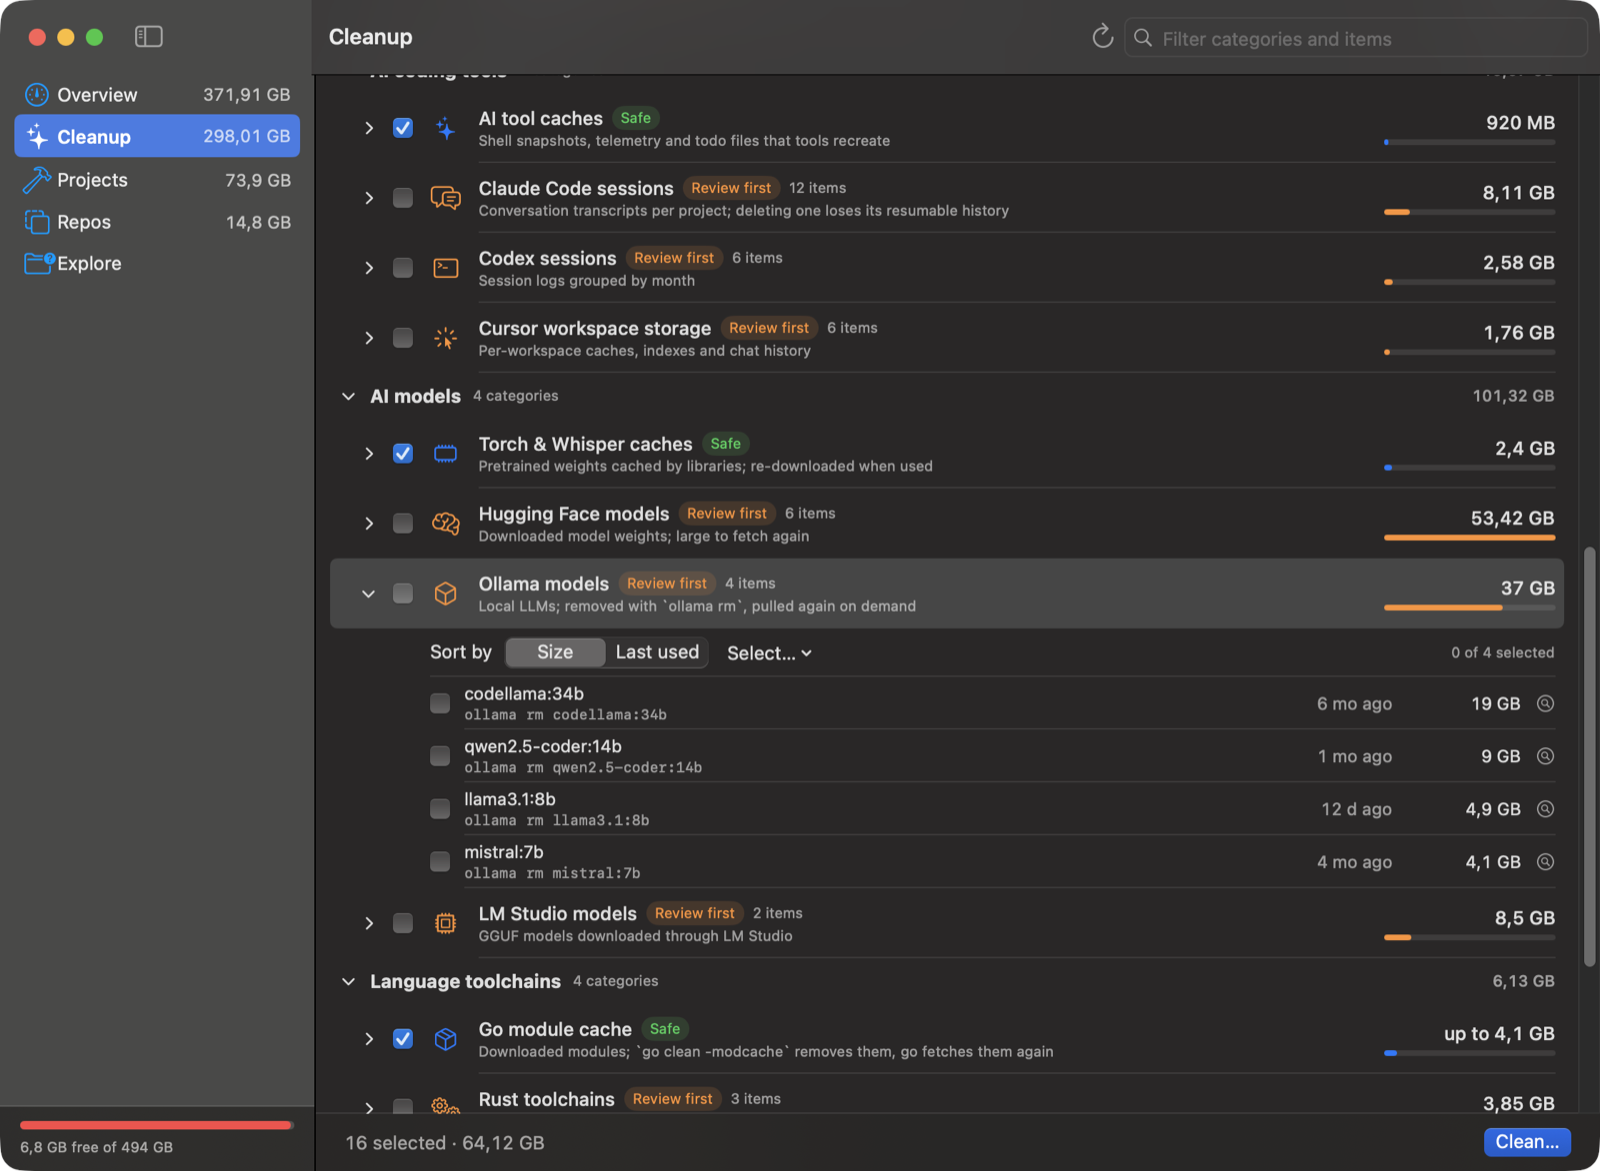
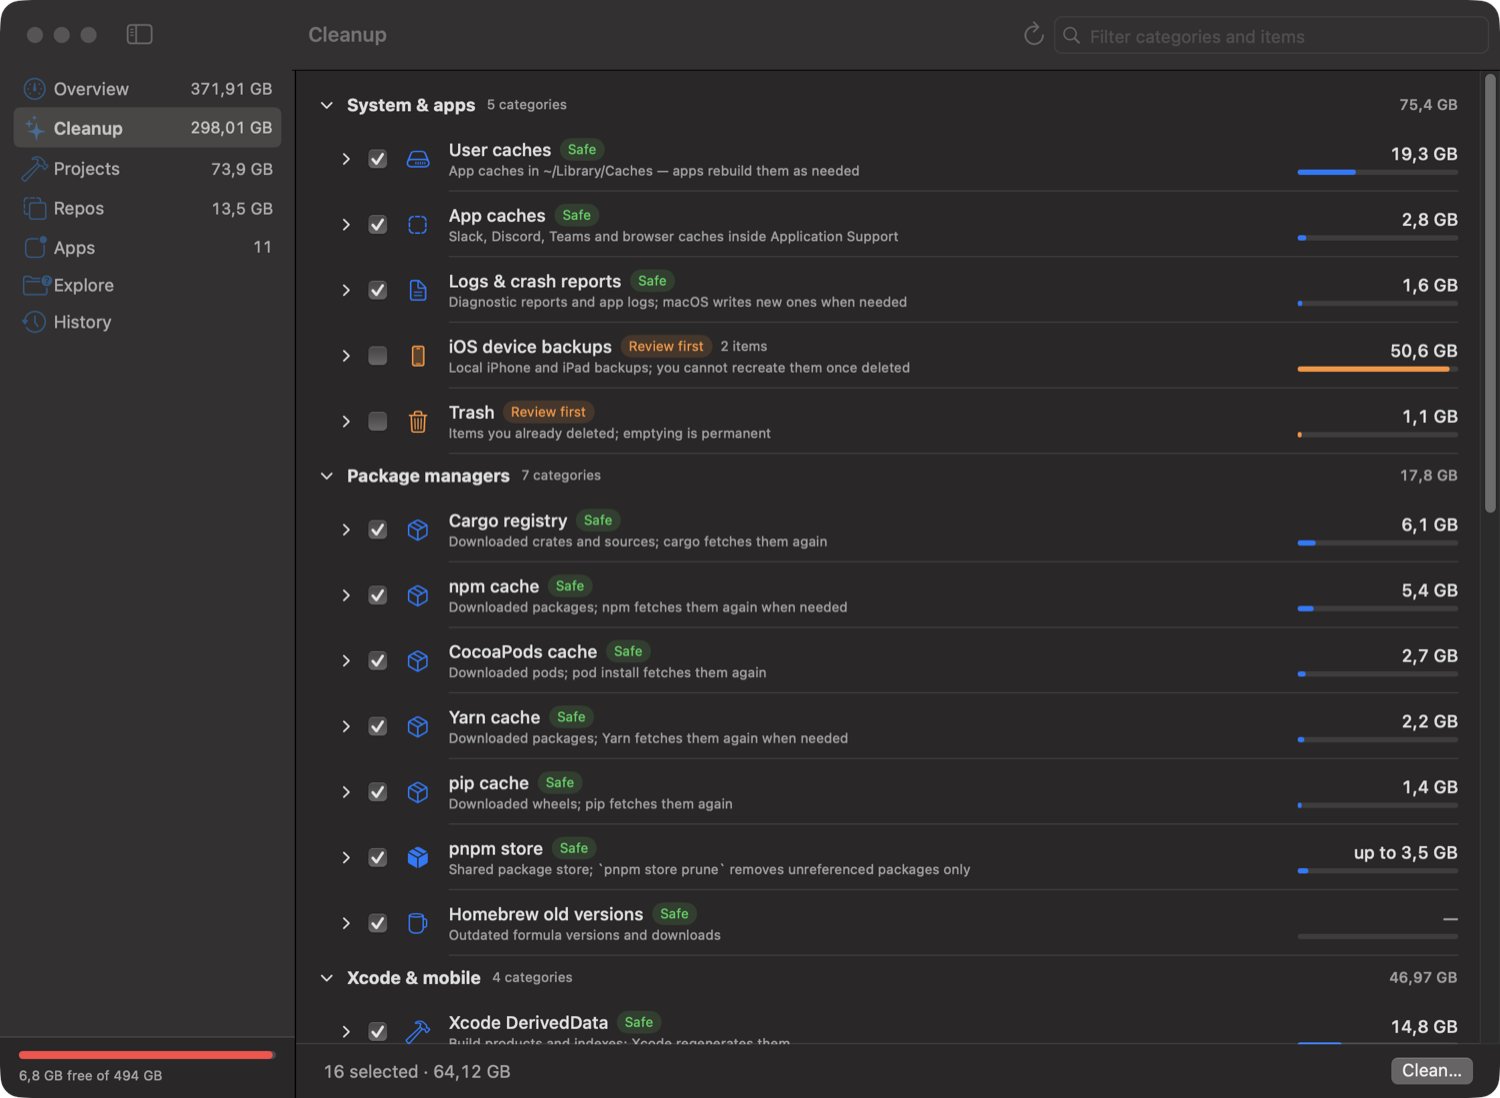
README: pitch, hero, install block and comparison first; refreshed mock-mode screenshots

diff --git a/README.md b/README.md
@@ -14,26 +14,46 @@
 </p>
 
 <p align="center">
-  <img src="docs/screenshots/overview.png" width="860" alt="Overview: real free space versus what Finder reports, and the biggest things you can reclaim">
+  <img src="docs/screenshots/overview.png" width="860" alt="Overview: real free space versus what Finder reports, and the biggest things you can reclaim (mock data)">
 </p>
+
+```sh
+brew install --cask baturox/tap/mac-cleaner   # the app, plus the mac-cleaner command
+open -a "Mac Cleaner"                          # or download the .dmg from the latest release
+mac-cleaner scan                               # the same numbers on the command line
+```
+
+Mac Cleaner updates itself in place: the download is checked against its published checksum and the developer's signature and notarization before anything is replaced, and nothing is installed without your click (see [Updates](#updates)). The app works without [Full Disk Access](#full-disk-access); some sizes are then too small.
 
 <table>
   <tr>
-    <td><img src="docs/screenshots/cleanup.png" alt="Cleanup: categories grouped by safe and caution"></td>
-    <td><img src="docs/screenshots/projects.png" alt="Projects: stale build folders with idle time"></td>
+    <td><img src="docs/screenshots/cleaning.png" alt="Cleaning: every item shown as it is removed, with a progress bar and a time estimate (mock data)"></td>
+    <td><img src="docs/screenshots/apps.png" alt="Apps: size, data kept and last use, with an approximate date marked when macOS has none (mock data)"></td>
   </tr>
   <tr>
-    <td><img src="docs/screenshots/repos.png" alt="Repos: every clone and worktree with its backup status"></td>
-    <td><img src="docs/screenshots/repos-remove-warning.png" alt="Removing a clone that is not backed up needs an explicit confirmation"></td>
+    <td><img src="docs/screenshots/repos.png" alt="Repos: every clone and worktree with its backup status (mock data)"></td>
+    <td><img src="docs/screenshots/cleanup.png" alt="Cleanup: categories grouped by safe and caution (mock data)"></td>
   </tr>
   <tr>
-    <td colspan="2"><img src="docs/screenshots/history.png" alt="History: every deletion made by the app, the command line or an AI agent, with items and outcomes (mock data)"></td>
+    <td colspan="2" align="center"><img src="docs/screenshots/update.png" width="480" alt="The update prompt: current and new version, release notes, Install Update, Later and Skip This Version"></td>
   </tr>
 </table>
 
 Mac Cleaner is a free, open-source macOS app (with a command-line tool) that frees up the disk space developers actually lose: `node_modules` and Rust `target` folders in dozens of projects, duplicate git clones and worktrees left behind by coding agents, Claude Code / Cursor / Codex session data, Hugging Face and Ollama model downloads, npm / pnpm / uv / Homebrew caches, Xcode DerivedData and simulators, Docker images.
 
 If your Mac says the disk is full and "System Data" is enormous, this is the tool that tells you which folders it really is, and which of them are safe to delete.
+
+## How it compares
+
+An honest, short comparison. "—" means not something I can state with confidence.
+
+| | Mac Cleaner | DaisyDisk | CleanMyMac | npkill | kondo |
+|---|---|---|---|---|---|
+| Scope | Developer caches, build folders, git clones, AI tool data, apps | Disk-space map of any folder | General Mac cleanup | `node_modules` folders | Build folders of many project types |
+| Knows developer artifacts | Yes (build folders, package caches, Xcode, AI models and sessions) | No | — | `node_modules` only | Yes (project build folders) |
+| Git-safety checks before deleting | Yes (uncommitted, unpushed, stash, no remote; never removes work that exists nowhere else without a confirmation) | No | — | — | — |
+| Command line / MCP for AI agents | Both | No | No | Command line | Command line |
+| Price and licence | Free, MIT, open source | Paid, closed source | Paid, closed source | Free, open source | Free, open source |
 
 ## Why another cleaner?
 
@@ -74,7 +94,7 @@ Mac Cleaner knows these places. It shows what each one is, how big it is, whethe
 
 1. Download `MacCleaner-<version>.dmg` from the [latest release](https://github.com/baturox/mac-cleaner/releases/latest).
 2. Open it and drag **Mac Cleaner** to **Applications**.
-3. Read the next section before the first launch.
+3. Optionally grant [Full Disk Access](#full-disk-access) for complete sizes.
 
 Each release also contains a `.zip` of the app, a CLI-only `.tar.gz`, and `SHA256SUMS` to verify the downloads.
 
@@ -277,7 +297,7 @@ $ mac-cleaner apps com.acme.app --clear-caches -n
 $ mac-cleaner apps com.acme.app --remove --with-data
 ```
 
-`apps` lists installed apps (`--json`, `--unused <days>`, `--sort size|data|opened|name`). With a bundle identifier it shows the data the app keeps; `--clear-caches` removes only its cache folders, `--remove` moves the app to the Trash (`--with-data` also removes its exact-match data, except data folders over 50 MB, which are named and left alone). `-n/--dry-run` previews, `-y` skips the question (required off a terminal), `--trash` moves the data to the Trash too instead of deleting it. `--json` with an action is a dry run. The CLI never removes "possibly related" folders or group containers.
+`apps` lists installed apps (`--json`, `--unused <days>`, `--sort size|data|opened|name`). *Last opened* is Spotlight's launch date; when macOS has none, a date marked `≈` is an estimate from the newest change in the app's own data files (Preferences plist, Container, Caches, Saved Application State; only for apps with a reverse-DNS bundle id). The estimate never counts an app as unused: `--unused` and the "Not opened in 90+ days" filter use launch dates only. In `--json` it is the optional `app.lastActivity` field; `lastOpenedText` keeps its meaning. With a bundle identifier it shows the data the app keeps; `--clear-caches` removes only its cache folders, `--remove` moves the app to the Trash (`--with-data` also removes its exact-match data, except data folders over 50 MB, which are named and left alone). `-n/--dry-run` previews, `-y` skips the question (required off a terminal), `--trash` moves the data to the Trash too instead of deleting it. `--json` with an action is a dry run. The CLI never removes "possibly related" folders or group containers.
 
 **How leftovers are matched.** Only your own `~/Library`, never `/System`, never through a symlink.
 - *Exact*: the full bundle identifier as the whole name, no prefix or substring: `Caches/<id>`, `Application Support/<id>`, `Containers/<id>`, `Preferences/<id>.plist`, `Saved Application State/<id>.savedState`, `HTTPStorages/<id>` and `<id>.binarycookies`, `WebKit/<id>`, `Logs/<id>`, `Application Scripts/<id>`, `Cookies/<id>.binarycookies`, and `LaunchAgents/<id>*.plist` only when the program it starts is inside the app bundle. Each is a *cache* (rebuilt by the app), *settings* or *data* (documents, databases). They start ticked, except data-class folders over 50 MB, which start unticked with a note. An app whose identifier has unusual characters, or that is installed twice, gets none.
@@ -394,7 +414,7 @@ claude mcp add mac-cleaner -- mac-cleaner mcp --allow-clean --min-idle-days 30 -
 | `list_category_items` | Items of one category, paged | read-only, idempotent |
 | `scan_projects` | Rebuildable build folders (root, min size, min idle days, kinds), paged | read-only, idempotent |
 | `scan_repos` | Git clones and worktrees with backup status, untrusted-config, ignored-file and hidden-from-status signals, paged | read-only, idempotent |
-| `list_apps` | Installed apps with bundle size, data kept (caches, settings, data), last opened, running / App Store / Homebrew / removable; filter `unused_days`, sort, paged. There is no tool that removes an app | read-only, idempotent |
+| `list_apps` | Installed apps with bundle size, data kept (caches, settings, data), last opened, running / App Store / Homebrew / removable; filter `unused_days` (launch dates only), sort, paged; an optional `last_activity_estimate` (approximate, from the app's own data files) appears when there is no launch date. There is no tool that removes an app | read-only, idempotent |
 | `explore_folder` | Biggest children of a folder, inside your home and temp folders only. Credential locations and your protected folders are refused and left out; `~/Documents`, `~/Library` and your other top-level folders are listed. A folder's size includes protected folders inside it | read-only, idempotent |
 | `growth_report` | Takes a size snapshot (the only thing it writes, in Mac Cleaner's own history file) and reports what grew | not read-only, not destructive |
 | `audit_history` | What was deleted, by whom, paged; interrupted operations are marked `unfinished` | read-only, idempotent |
